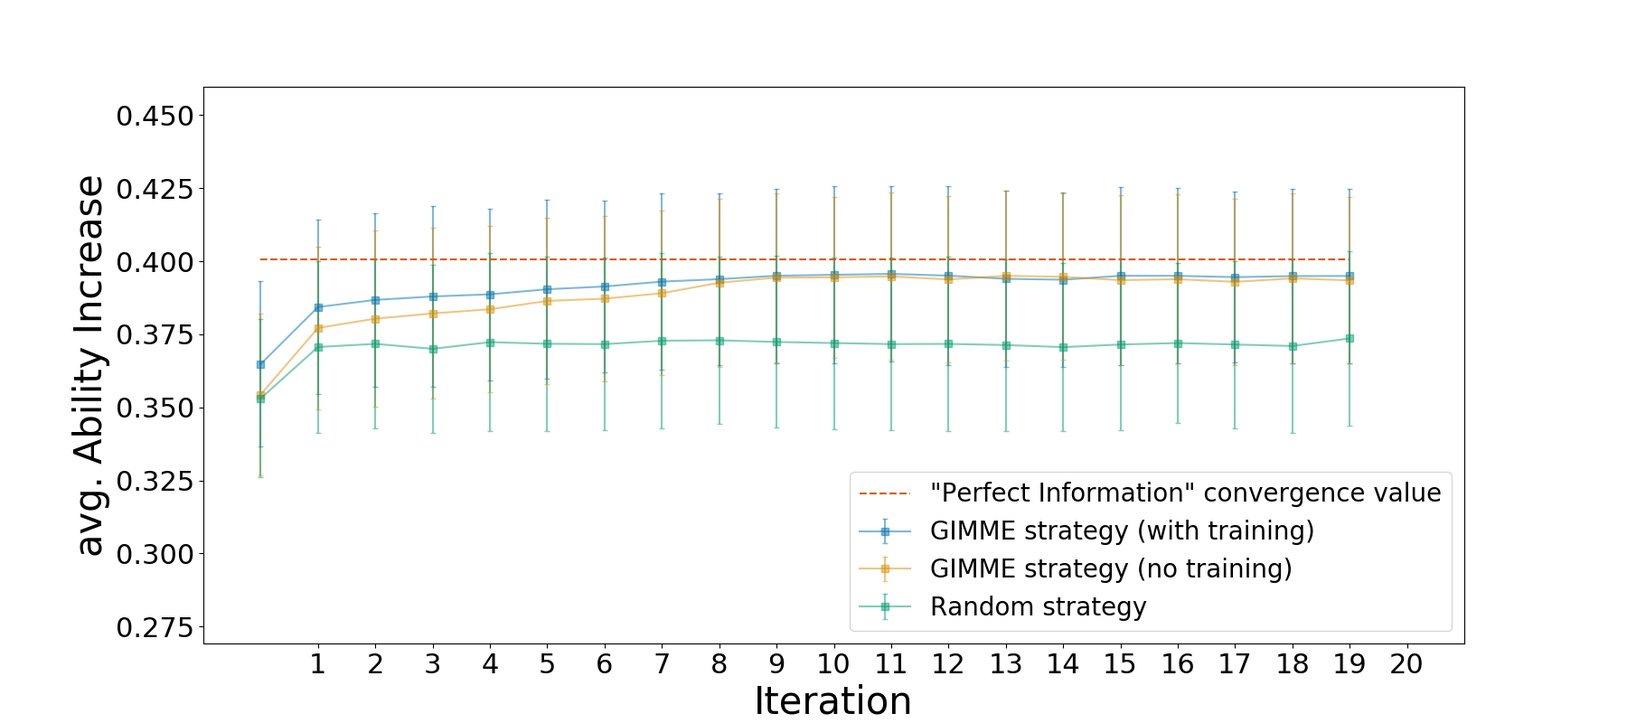
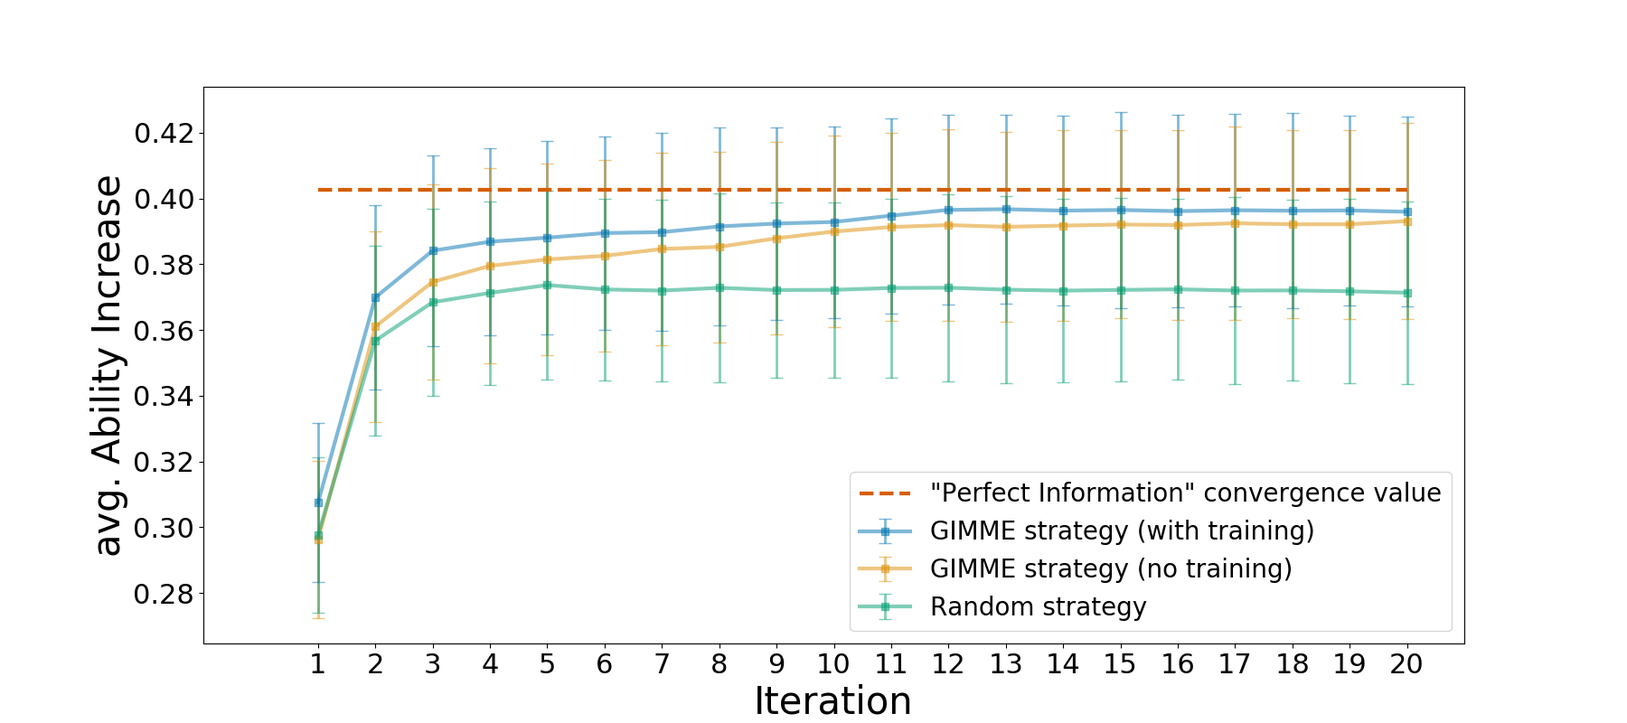
Updated simulation parameterizations.

diff --git a/examples/plotsOnly.py b/examples/plotsOnly.py
@@ -6,41 +6,40 @@ import matplotlib.collections as collections
 maxNumTrainingIterations = 20
 numRealIterations = 20
 
-GIMMEAbilityMeans = [0.32788280316291435, 0.34823899998823565, 0.35221047490561097, 0.35526979383144036, 0.3549769717011178, 0.3587416344563396, 0.3600134323456845, 0.3621627672736143, 0.363742690017788, 0.36604064067102976, 0.3666865846799893, 0.3667211465383608, 0.3667607099296731, 0.3664881178361091, 0.36790129820752454, 0.36593080858344823, 0.3654326232132489, 0.3667037276310321, 0.3666032221577468, 0.36681715140794957, 0.36481064181648337, 0.3843621007192697, 0.38679968152927496, 0.38796874247356994, 0.38871531302825785, 0.390445963765652, 0.39138984049903186, 0.39306281492071826, 0.3939030697120506, 0.39506731304366666, 0.39538825160798324, 0.3957132251617034, 0.39509699213031163, 0.3940227757609388, 0.3937046529091305, 0.3950484984234933, 0.39504048934587016, 0.3945859710087972, 0.39495218458623477, 0.3949890375352966]
-GIMMEAbilitySTDev = [0.02881201016111268, 0.027232426631951648, 0.028789000986619642, 0.030042011428566124, 0.029417800743487568, 0.028387611178705245, 0.029182283518719827, 0.028522386456396445, 0.028812664534610594, 0.0282938265452271, 0.028872241660869824, 0.02837026249855532, 0.02847952837214279, 0.02845341938335473, 0.02838352687690083, 0.02797047669749916, 0.028299735135563813, 0.028346224177664584, 0.027819230072839287, 0.028564523008593027, 0.028295585038448902, 0.029829476131407878, 0.029627289208460656, 0.0308402865469588, 0.02939949982448407, 0.030613678965615, 0.02937105356418295, 0.030144985940403234, 0.02942423856783531, 0.029869799520586052, 0.03026602442571173, 0.02996659476340647, 0.030693046936720977, 0.030136391595870657, 0.02992351151544292, 0.030421685227931494, 0.030091940096057274, 0.029187893084493183, 0.029787121189796185, 0.02987508564372308]
-GIMMEEngagementMeans = [0.6526349010590471, 0.6939547544031404, 0.7009125441092108, 0.7066446604985753, 0.7065895782266944, 0.7138079457304671, 0.7155661275045233, 0.7197462985315283, 0.7232249592135837, 0.7285092946829282, 0.7293175763860601, 0.7292989755576665, 0.7294329381216381, 0.7294924159628722, 0.7319157769646072, 0.7281734086997835, 0.7269378178376017, 0.7287447764989647, 0.7293200633511709, 0.7296443785901017, 0.7256320935289342, 0.7647104445549887, 0.7695068910814744, 0.7720208949229715, 0.7734762558715372, 0.7759958739426142, 0.7783294767332669, 0.781489329537536, 0.7825313351159254, 0.785254316832925, 0.7859069118928582, 0.7867672855812199, 0.7855190967858368, 0.7842351186845219, 0.7829356635393239, 0.7863824469421705, 0.7856621028731982, 0.7851221510238496, 0.7849557276195953, 0.7853362821698359]
-GIMMEEngagementSTDev = [0.03147774782143698, 0.027666838088066237, 0.028920558143334676, 0.028285639203155057, 0.028782852432009426, 0.02804376152003227, 0.027045357593349025, 0.024869124602732193, 0.024015572444884965, 0.023452562260632165, 0.023940866251070093, 0.023232511477645795, 0.02298643330162976, 0.025478930909636786, 0.023830047882696496, 0.024651249268394845, 0.026383554315255756, 0.023926925665258555, 0.022986606462108664, 0.023785272958856168, 0.025374892800991776, 0.02556549060043557, 0.02485316557363593, 0.02430008052463983, 0.023040095379035862, 0.022623598386080454, 0.0221746180743705, 0.022160156272235165, 0.022197634319929327, 0.02030915814589234, 0.021800767906737437, 0.021588945929789757, 0.021865196555607137, 0.02114464641850341, 0.022811074380631388, 0.02129805133708739, 0.019851963972288517, 0.021494809038831515, 0.020688765106459752, 0.021693382060100505]
-GIMMEProfDiffMeans = [0.4426713219986452, 0.42973780560212105, 0.4224556522160783, 0.4144404451522709, 0.4149490977132045, 0.4041994049481251, 0.40211937458087643, 0.3960274458083182, 0.39116009171622923, 0.3835525123129624, 0.382742592310496, 0.3828304446169437, 0.38262963729903926, 0.3825510669979948, 0.3789479677593711, 0.38469940508070444, 0.3862602092460378, 0.38347831986362774, 0.3827564175516625, 0.3823164469348746, 0.33400435399225176, 0.32984098913105925, 0.32560947015406755, 0.322224019267693, 0.3202446252938149, 0.316602132147987, 0.3133157649760637, 0.30878555860226, 0.30746957640596345, 0.3034935798236218, 0.30272477466490544, 0.3014925570864158, 0.3034147077493338, 0.3052331908741006, 0.3070720499559955, 0.30184428870402724, 0.30317317790788006, 0.30392335812975496, 0.30413091378656787, 0.30355201555715594]
-GIMMEProfDiffSTDev = [0.04685921882320221, 0.040554317897308415, 0.04224603011797991, 0.041220588922187024, 0.041983727949138246, 0.04071295611886341, 0.039321351857342056, 0.03591973882516772, 0.0348255422462718, 0.033959221891834195, 0.03473777807079394, 0.03362704335524554, 0.03326233863919404, 0.03709260917406835, 0.03448061132138929, 0.03585586480425231, 0.03831394932413358, 0.03467110874962679, 0.033387655780271364, 0.034416022094738784, 0.03777422899254565, 0.03778569042359091, 0.0365081510934224, 0.035731500926619086, 0.0340401872458493, 0.033163180338686864, 0.03257820842403086, 0.032514932766662376, 0.032524312935658765, 0.02980681013228831, 0.03199922405710744, 0.03153776740084098, 0.0319598508212564, 0.03088856714543033, 0.03341678564753032, 0.031210706059209337, 0.028926014446860094, 0.03149882934987438, 0.030249056034530167, 0.031894387234333514]
+GIMMEAbilityMeans = [0.27689083128973474, 0.3351225543691162, 0.34849331661175803, 0.35303323256357355, 0.35528803276718185, 0.3572431887493089, 0.35762593038095036, 0.3600842523051019, 0.3625312019518175, 0.365441201414142, 0.36647377059004976, 0.36690977744324615, 0.36732558545598787, 0.36655936929994837, 0.36803474994417024, 0.3673347617631217, 0.3675962166720442, 0.3671758587404084, 0.36723204552101335, 0.3675006551071768, 0.30746158177379207, 0.36989514884803165, 0.38409697870540666, 0.38683160162983327, 0.3880572280490859, 0.3894633366060179, 0.3897408042902272, 0.3914712436948657, 0.3923528418588732, 0.3928288104713827, 0.3947572735454433, 0.3965001396890249, 0.3967171314454053, 0.3962867385832246, 0.39648003135624754, 0.39612611611447035, 0.3964092495497423, 0.39625378048122556, 0.3963429192008103, 0.3959264468123685]
+GIMMEAbilitySTDev = [0.023233877467273786, 0.02822858133161458, 0.028424589189562182, 0.028480669648600316, 0.028905417128825352, 0.028266342556348755, 0.028649159002363568, 0.029835261291705203, 0.028649781475419862, 0.02852417979221509, 0.027832833988708356, 0.028761384739022056, 0.028581773418703688, 0.028278423857526006, 0.02884080723891862, 0.028929888053266788, 0.02915532974848279, 0.029120963375531064, 0.02918530238256982, 0.02870558710922797, 0.024148282885085904, 0.02802344669629098, 0.028992925544448694, 0.028384219012657724, 0.0293008282432982, 0.029399395201436793, 0.030112000899700044, 0.030161208757022526, 0.029175978560263646, 0.029118772712038343, 0.029669572018902912, 0.028868520050458035, 0.028765318496601543, 0.028933375331402604, 0.029774714555433224, 0.029299049361024586, 0.029380313859995927, 0.029600420221799338, 0.028921106150470135, 0.028822564594962987]
+GIMMEEngagementMeans = [0.5503819836249878, 0.6656389463330521, 0.6926213137389472, 0.7016232321307802, 0.7065194314715345, 0.7097830534755281, 0.7099518821859895, 0.7143391758415252, 0.7196646705058025, 0.7250579963504699, 0.7273656755359951, 0.7282736349602991, 0.7288607473139852, 0.7275573702254488, 0.7302143644865208, 0.729080200034017, 0.7299449759257838, 0.7283271459529288, 0.7287390896161672, 0.7293282289616656, 0.6103794313943911, 0.734698734133571, 0.7626766622702892, 0.7686010236472667, 0.7708493387396791, 0.7730050902152915, 0.7737250692553496, 0.7767834496594639, 0.7789397596502536, 0.7801892387565509, 0.7836958424744553, 0.7869290748512984, 0.787501899860591, 0.7865939590916509, 0.7868530960438938, 0.7861187969670832, 0.7866942304668001, 0.7868662044436863, 0.7867200903903465, 0.7854573968128298]
+GIMMEEngagementSTDev = [0.024447806781589126, 0.025873615017365834, 0.027898395330118942, 0.02599843091347407, 0.025015114469786635, 0.023997792839684916, 0.025846082340043618, 0.026736686446664923, 0.02499350255334466, 0.024418162529240433, 0.021042852830779283, 0.02262956884688599, 0.022342634188287806, 0.022204485188976126, 0.021195995366789087, 0.02247698720623695, 0.021951314859777714, 0.02325257423164777, 0.022592473714927053, 0.022524382796177966, 0.02187434042151838, 0.02024688372580222, 0.02189431269528179, 0.022482123534999027, 0.02234385224077099, 0.022515860153346744, 0.02109112023577643, 0.022239044717842313, 0.02208807304987008, 0.020359582242433765, 0.019659897686360263, 0.019557949194153112, 0.01935205049293213, 0.01903919179889541, 0.018872284686090236, 0.020043778457183088, 0.019402593924705225, 0.019422745282184004, 0.018248093498301865, 0.01877544727339213]
+GIMMEProfDiffMeans = [0.44126648021276454, 0.4321084468702381, 0.4251593994122171, 0.4187858130484225, 0.41331313242797785, 0.40927487718028854, 0.41013029199035056, 0.40243426921614855, 0.3945711782878826, 0.3869198817882439, 0.384747271424978, 0.38395809856050317, 0.383241232876963, 0.3857528753846367, 0.3805951153468182, 0.38353944311497207, 0.3816097331841124, 0.3847754239942809, 0.38347521432761833, 0.38257939734082397, 0.33520497478368794, 0.3312391373034245, 0.32573419153049715, 0.32515299262535585, 0.32327307355706414, 0.3202571067637138, 0.31974652485334765, 0.3145945720761256, 0.3118640192956531, 0.31041760213153263, 0.30466050153637914, 0.3001846718232683, 0.3003151709714154, 0.3021227228822511, 0.3013436236044684, 0.3027333119941406, 0.3014564657413941, 0.3013559022931721, 0.3016749998706502, 0.3038554887297362]
+GIMMEProfDiffSTDev = [0.04321802490100848, 0.04255018713715994, 0.044962989011585956, 0.0410427215149286, 0.04005682665200548, 0.038354578302244736, 0.04095698144831006, 0.04241216848345821, 0.039324886261175855, 0.0381231821876202, 0.032104362842817744, 0.035792801992589135, 0.03482839528596643, 0.03396960215344246, 0.032643411539904715, 0.03554749767346182, 0.03375859587660654, 0.03636404928109551, 0.03463036152313238, 0.03465960966984218, 0.03866873611509995, 0.034939906405445864, 0.03688581993121396, 0.03662124696027411, 0.036296720062277764, 0.03684114275044, 0.03450035408808989, 0.03652052178533654, 0.036039730790516325, 0.03321487800442235, 0.0318922548574032, 0.03141923301699784, 0.031337134566028886, 0.030886409706490474, 0.030295382891425464, 0.03239902018120343, 0.031181140391881138, 0.030962818163592927, 0.029893958965662507, 0.03066307141303379]
 
-GIMMEOldAbilityMeans = [0.0, 0.0, 0.0, 0.0, 0.0, 0.0, 0.0, 0.0, 0.0, 0.0, 0.0, 0.0, 0.0, 0.0, 0.0, 0.0, 0.0, 0.0, 0.0, 0.0, 0.3543984332820961, 0.37720148195527287, 0.3803775151341241, 0.382172589118423, 0.3836029005462023, 0.3864571714153927, 0.3872254974402284, 0.3890849157485702, 0.39268968828221307, 0.39441442766448076, 0.39451746562585155, 0.3948473389059694, 0.3938025291274264, 0.3950507036218623, 0.39469579553037243, 0.3935642299518866, 0.3938857468860794, 0.3929830040379781, 0.3941584205948491, 0.39349849068927056]
-GIMMEOldAbilitySTDev = [0.0, 0.0, 0.0, 0.0, 0.0, 0.0, 0.0, 0.0, 0.0, 0.0, 0.0, 0.0, 0.0, 0.0, 0.0, 0.0, 0.0, 0.0, 0.0, 0.0, 0.027755584326956066, 0.027847695319644455, 0.030058490554918424, 0.029221225730889606, 0.02840637878388629, 0.02846075583930205, 0.028275374823501852, 0.028153448791584355, 0.02876668882242421, 0.02897452838448741, 0.02751749771326003, 0.028558023899957263, 0.02854367593782314, 0.029007204008574303, 0.02839793453731666, 0.029155794788245395, 0.02892049383546314, 0.028407169751019565, 0.02897067653539608, 0.02840808387439699]
-GIMMEOldEngagementMeans = [0.0, 0.0, 0.0, 0.0, 0.0, 0.0, 0.0, 0.0, 0.0, 0.0, 0.0, 0.0, 0.0, 0.0, 0.0, 0.0, 0.0, 0.0, 0.0, 0.0, 0.7074155362446245, 0.7541417594607328, 0.7599638570700229, 0.7632869161184747, 0.7658960221076953, 0.7717713213988137, 0.7731654601863512, 0.7766401725928008, 0.7839331412515826, 0.7870015337539178, 0.7874552625885751, 0.788341701009351, 0.7854279568803259, 0.7881167544286962, 0.7880373716411185, 0.7858636359155334, 0.7862762373663787, 0.7848865798530171, 0.7871223769585176, 0.7856764434134516]
-GIMMEOldEngagementSTDev = [0.0, 0.0, 0.0, 0.0, 0.0, 0.0, 0.0, 0.0, 0.0, 0.0, 0.0, 0.0, 0.0, 0.0, 0.0, 0.0, 0.0, 0.0, 0.0, 0.0, 0.02601691259597926, 0.025074905765971243, 0.028390803381333908, 0.027274936450494194, 0.026352723625395636, 0.02510482954697482, 0.021325081279983775, 0.023039982373902593, 0.020864221556845166, 0.021583578715717665, 0.02024238923931429, 0.020442354237644008, 0.022238349741629318, 0.021979445260404504, 0.02129497188996083, 0.02124569654941382, 0.022853445419392753, 0.02251534522116488, 0.021838117709628565, 0.020400104182124946]
-GIMMEOldProfDiffMeans = [0.0, 0.0, 0.0, 0.0, 0.0, 0.0, 0.0, 0.0, 0.0, 0.0, 0.0, 0.0, 0.0, 0.0, 0.0, 0.0, 0.0, 0.0, 0.0, 0.0, 0.3611223564882702, 0.3442181182659933, 0.339029016717588, 0.33451551071247204, 0.33087881879996617, 0.3223267806034193, 0.32068871367274515, 0.31561986639749323, 0.30502184964308887, 0.3009969322408518, 0.30054987818081197, 0.2992640573773493, 0.3036675701419774, 0.2994480261602836, 0.2997663323842626, 0.302996346419417, 0.30222033284589483, 0.3043197516151901, 0.30088800612631017, 0.3032069046096681]
-GIMMEOldProfDiffSTDev = [0.0, 0.0, 0.0, 0.0, 0.0, 0.0, 0.0, 0.0, 0.0, 0.0, 0.0, 0.0, 0.0, 0.0, 0.0, 0.0, 0.0, 0.0, 0.0, 0.0, 0.03872996909926799, 0.03704343479267916, 0.04182682291254275, 0.039937505701499024, 0.03868562161498767, 0.0368075110812226, 0.031276844800245514, 0.03391453886964588, 0.03049220677928741, 0.03162872747436388, 0.02953172032828643, 0.029955547104238395, 0.03262707886675792, 0.03215129879874543, 0.03113733879661808, 0.031271469491860784, 0.03353895526403242, 0.03288500970125285, 0.031926791960900584, 0.02975891052757369]
+GIMMEOldAbilityMeans = [0.0, 0.0, 0.0, 0.0, 0.0, 0.0, 0.0, 0.0, 0.0, 0.0, 0.0, 0.0, 0.0, 0.0, 0.0, 0.0, 0.0, 0.0, 0.0, 0.0, 0.29623245296951, 0.3610325168989303, 0.3746122902312078, 0.379496554868998, 0.38145183335860305, 0.3825298268613126, 0.3846220033454874, 0.3852643762877196, 0.38787211328207344, 0.3899216785435304, 0.39130844433349676, 0.3918883116391506, 0.39135716022851713, 0.39172715410373293, 0.39205409242474976, 0.39190712329853655, 0.3924485223852076, 0.39212676747305036, 0.392134337228605, 0.3931100122149698]
+GIMMEOldAbilitySTDev = [0.0, 0.0, 0.0, 0.0, 0.0, 0.0, 0.0, 0.0, 0.0, 0.0, 0.0, 0.0, 0.0, 0.0, 0.0, 0.0, 0.0, 0.0, 0.0, 0.0, 0.02388601261549183, 0.028945420867378186, 0.02974036115359839, 0.02960902688880485, 0.029258305461624844, 0.029022739003072423, 0.029258385433572755, 0.02902112345189164, 0.02924660539893451, 0.029162687134190568, 0.028549658742719388, 0.029040313630660994, 0.028808231230520582, 0.029093222626397696, 0.02858493813619273, 0.028740392575918677, 0.029398461136658883, 0.028588743860711776, 0.028715680608155294, 0.029784794462273247]
+GIMMEOldEngagementMeans = [0.0, 0.0, 0.0, 0.0, 0.0, 0.0, 0.0, 0.0, 0.0, 0.0, 0.0, 0.0, 0.0, 0.0, 0.0, 0.0, 0.0, 0.0, 0.0, 0.0, 0.5930483968684577, 0.7228716570372956, 0.7499213584361946, 0.7593209686501187, 0.763225182253601, 0.7653166207566109, 0.769594798172061, 0.7706971774156779, 0.77595974069006, 0.7801775054390503, 0.7822945517588834, 0.7836125867659152, 0.7829118760197213, 0.7839785284327601, 0.7841757753384012, 0.7833993973610993, 0.7848476595081086, 0.7840524513356129, 0.7845191811708532, 0.7860477354986559]
+GIMMEOldEngagementSTDev = [0.0, 0.0, 0.0, 0.0, 0.0, 0.0, 0.0, 0.0, 0.0, 0.0, 0.0, 0.0, 0.0, 0.0, 0.0, 0.0, 0.0, 0.0, 0.0, 0.0, 0.023172572343129534, 0.025013753537979667, 0.023177710006916867, 0.025055495590352906, 0.02210148812770869, 0.0235976536603169, 0.02230481136616883, 0.021289724159580373, 0.02058373979223837, 0.02103498722970951, 0.0200425635814147, 0.019327769986905094, 0.018521782808303418, 0.01866616539444068, 0.020831467036875058, 0.01980720210218187, 0.020139637376608288, 0.01989167822253314, 0.019596490355368538, 0.01953668195108921]
+GIMMEOldProfDiffMeans = [0.0, 0.0, 0.0, 0.0, 0.0, 0.0, 0.0, 0.0, 0.0, 0.0, 0.0, 0.0, 0.0, 0.0, 0.0, 0.0, 0.0, 0.0, 0.0, 0.0, 0.36584220487935265, 0.3460192073252742, 0.34410109291525753, 0.3370482862524336, 0.333469810528264, 0.33115298261559345, 0.32432959713558884, 0.3238934116698815, 0.3149801761448321, 0.30938474809505023, 0.3071335086006807, 0.30555201877681737, 0.3072567078231836, 0.305123376276971, 0.3051518082928183, 0.30659400093637484, 0.3037593199074043, 0.305677100628013, 0.30457088250369996, 0.3020337685929354]
+GIMMEOldProfDiffSTDev = [0.0, 0.0, 0.0, 0.0, 0.0, 0.0, 0.0, 0.0, 0.0, 0.0, 0.0, 0.0, 0.0, 0.0, 0.0, 0.0, 0.0, 0.0, 0.0, 0.0, 0.04096370760341602, 0.04330756631656927, 0.03862814814441312, 0.04203444740144883, 0.03622981947161655, 0.03933006133347405, 0.036612154450686635, 0.03462365341907195, 0.03354075418938499, 0.03404024592963272, 0.032503569664109534, 0.03134353738757214, 0.03019438855844292, 0.03090113473101346, 0.0342496198110307, 0.031779833947491926, 0.032635228953507886, 0.032393137212786964, 0.031802602088936004, 0.03137959505465563]
 
-optimalAbilityMeans = [0.3602635923505468, 0.3782362700107354, 0.3792662888206428, 0.3791917236742285, 0.37917275257641997, 0.3795651201075257, 0.3793193300733173, 0.3795032721081478, 0.3793565766326111, 0.37929886223277925, 0.37911157923240374, 0.37933054071768185, 0.37930380012957005, 0.37939562262497173, 0.3793989456063367, 0.3791746750823564, 0.3791275276525014, 0.37923718092086744, 0.3794226703204523, 0.37947485654791163, 0.3809264026586092, 0.3997042897177444, 0.40078796074121137, 0.40092296295261093, 0.4010303901124376, 0.40086875966613067, 0.40088598020598437, 0.40108212705534496, 0.4008263646112519, 0.40093705132229285, 0.4008575693818429, 0.40090281482090107, 0.4008337138901053, 0.4008467484110739, 0.40087469620327265, 0.40053237140070347, 0.40089833696196603, 0.40095785107169696, 0.4009738811989782, 0.40080110075107633]
-optimalAbilitySTDev = [0.026528753834449456, 0.027824201882000753, 0.0280770893343096, 0.027854207480613596, 0.027738812069515274, 0.027822557822011165, 0.02805448901383333, 0.02803631666933907, 0.028130904606627174, 0.02772062958064721, 0.027994845028591706, 0.02810801990985394, 0.027761602760230965, 0.02794461937842264, 0.02804067885045525, 0.02811675788166103, 0.027812743712730223, 0.027945302614035678, 0.027679488705935295, 0.027901290809777272, 0.027708411577382623, 0.02909443706248024, 0.02927925695401499, 0.029329999584083784, 0.02934394599208024, 0.02922920385573755, 0.029069206317309918, 0.02907217979297166, 0.029127286957682408, 0.029267651490457305, 0.029138042244755573, 0.029275187439227746, 0.02922962937555075, 0.029150782176648106, 0.02922468929795034, 0.029198892670685317, 0.029213111166840482, 0.029152931690577883, 0.029146714131782336, 0.02924600324026987]
-optimalEngagementMeans = [0.7239021539583884, 0.760180736159736, 0.7622435883648719, 0.7619182705807965, 0.7618488975335045, 0.7627528600242844, 0.7620441125842116, 0.7624274397651607, 0.7626564183770088, 0.7621857794445935, 0.7616083150651305, 0.7619701099492863, 0.762207724870124, 0.7622386431389676, 0.7620843370102874, 0.761938430081285, 0.7619086702416906, 0.7621580677639231, 0.7625132425592075, 0.7626521850044693, 0.7661544767276847, 0.8040238598238958, 0.806077584917313, 0.8064425216879215, 0.8065890519369696, 0.8062444788268959, 0.8064196854775849, 0.806761871872288, 0.806367866010714, 0.8064995413512823, 0.8063474390608731, 0.8064061584652674, 0.8063422261212271, 0.8061388367029781, 0.8065369027760002, 0.8056754811572933, 0.8063031292422276, 0.8066270553078021, 0.8065883145308346, 0.8061726737315068]
-optimalEngagementSTDev = [0.013998981860875701, 0.014514146444981045, 0.014985610552954949, 0.01460090775603119, 0.014500734596829714, 0.014372136708185577, 0.014827236481487665, 0.014837800710898328, 0.015134964364785675, 0.014422660665458196, 0.014432840647708603, 0.014718009640518165, 0.01482585013346212, 0.014621460514108692, 0.0145814743963888, 0.014930350531395612, 0.014977814845958027, 0.015053482968742543, 0.01427233379633329, 0.014760039133930668, 0.009683745769464177, 0.0100885196077596, 0.010545765391060174, 0.010191689660906321, 0.010723117430208156, 0.010294491145050946, 0.010384199282279268, 0.010219096968021047, 0.010383112095744175, 0.010224114355100537, 0.010370290127116313, 0.010194027877079724, 0.01009826474101157, 0.010359158006149132, 0.010576863507923617, 0.010447822059659332, 0.010575306887825292, 0.010149932723957592, 0.010172945283415663, 0.010552867387408531]
-optimalProfDiffMeans = [0.3365796213635699, 0.3364553573900318, 0.3360847990563119, 0.3367226248464217, 0.3368016825971883, 0.33545083898713024, 0.3365731969268828, 0.3359498048108535, 0.33563746867036753, 0.33635512676944185, 0.3371797359896141, 0.33659816953716054, 0.33627137429287385, 0.33624303416346335, 0.3364750426599825, 0.3366807610461319, 0.3367142027207389, 0.336340723039895, 0.33583055678243773, 0.3356501571615377, 0.27368087620346027, 0.27433341032945324, 0.27409484599068623, 0.27370444784713055, 0.2735134792797803, 0.2740373331942765, 0.2737508651733322, 0.2732545118478926, 0.27386651675852935, 0.273641172048933, 0.2738773993906042, 0.2737786656704275, 0.2738782089092911, 0.2741762250927962, 0.2735685069424008, 0.2748804876350935, 0.27388202432886405, 0.27344653041998535, 0.27352831227678515, 0.2741441706650755]
-optimalProfDiffSTDev = [0.020839526323236334, 0.020684325738612414, 0.021357839170293748, 0.020747244567082945, 0.02061905011972175, 0.0204166331017268, 0.021110886960347304, 0.02111424336187048, 0.021544382491397406, 0.020448519856792937, 0.020517886716915602, 0.02096662607686375, 0.02111023066858955, 0.02080625748060905, 0.02073910878869795, 0.021254436790146627, 0.02130277792922542, 0.021418963625605768, 0.0202444801721053, 0.021039115566230067, 0.014415668001871306, 0.01437123968176708, 0.015009968554327582, 0.014455414408090514, 0.015270555928187195, 0.014594738662524682, 0.014763249137689111, 0.014520987658507858, 0.014771289471752784, 0.01452403533592205, 0.014742430842332024, 0.014473720013005668, 0.014341091939551182, 0.01473853403079745, 0.015044923040677945, 0.014832437372482169, 0.015043395777759965, 0.01440392068720803, 0.014456848001971017, 0.015024503205799837]
+optimalAbilityMeans = [0.304608981440512, 0.36553178386643653, 0.37755632611872203, 0.38013518351542575, 0.38065641423768976, 0.3807897837922344, 0.38065678712207734, 0.3807727995449085, 0.3808107885460144, 0.3808228574924559, 0.38075133977363873, 0.38079764777195474, 0.3805701065438309, 0.38078044370653447, 0.3807091481783585, 0.3807827468675298, 0.3806962869615429, 0.3807960061111983, 0.38084584677699634, 0.38057066519990485, 0.32203423684170657, 0.38637650568219595, 0.399217105077989, 0.4018718951644782, 0.4024250766776155, 0.4024844109801471, 0.4024699966554735, 0.40263192623630506, 0.40261207495927065, 0.402520295109223, 0.40254007260229363, 0.4024568254689321, 0.40260609574797046, 0.4025708298123816, 0.4024977446040781, 0.4023287465524641, 0.402511932432449, 0.4025056760811743, 0.40257536840053, 0.4025225602556265]
+optimalAbilitySTDev = [0.020906215857945113, 0.024945499553978737, 0.025896878686728738, 0.025847620021785124, 0.025837784490050964, 0.025938435328812834, 0.0260051065674879, 0.025983550986544375, 0.025972047243150706, 0.02584609986551581, 0.025832742824595682, 0.02604158910526461, 0.025855211097432485, 0.0259156367378922, 0.026006576174371538, 0.025854997862986267, 0.0257315212690177, 0.02607623686751637, 0.026019752511048155, 0.025937202705891355, 0.02187076631900886, 0.026241633931336352, 0.027065222048618442, 0.027214179757862157, 0.027228532026923002, 0.027327997214078276, 0.02738253761751362, 0.02735438575799757, 0.02734172462163079, 0.02740217571468028, 0.027303152129529985, 0.027224609604110016, 0.027284176360509175, 0.0272693374793177, 0.027339419431115022, 0.02737334209018009, 0.027307883163055158, 0.027219889972311576, 0.02730072859509077, 0.027371008062407245]
+optimalEngagementMeans = [0.6092564677854321, 0.7310765382337672, 0.7549431904650775, 0.7599812052004046, 0.7610430029250701, 0.7614865381083813, 0.7611284748198532, 0.7614712118124606, 0.7613948581504314, 0.7612962233739783, 0.7614672897722056, 0.7614465181176648, 0.7612239973086833, 0.7615761223073866, 0.7614122959979328, 0.7615540683756611, 0.7615385587750453, 0.761657758210068, 0.7616112213942098, 0.7611801607358932, 0.6448818631172787, 0.7736824949792281, 0.7994628393738032, 0.804802151335665, 0.8058452627336943, 0.8058619283093552, 0.8059389448205905, 0.8062488279783264, 0.8061315792483869, 0.8059761766157517, 0.8059721039233306, 0.805843100244255, 0.8060809557202485, 0.8061546259130928, 0.8059855894508904, 0.8055497435298044, 0.8059095958254316, 0.8058788244710581, 0.8061733947221231, 0.8060112336809643]
+optimalEngagementSTDev = [0.012316217446315492, 0.014602593203946076, 0.015283160412072144, 0.015207341812578915, 0.015450866114560072, 0.01503261243768995, 0.015346230668430992, 0.01522640799600787, 0.015242237778098721, 0.015375455637761846, 0.01518046368419003, 0.01567220926245135, 0.015544502662063165, 0.015320993198035716, 0.015090706416183363, 0.015179712777763532, 0.015447849461120308, 0.015369111921145791, 0.015185102963169645, 0.01544984867674464, 0.008315956474780693, 0.010070131307539604, 0.010182354399251924, 0.010274914027793626, 0.010202968830953327, 0.010480542363966531, 0.01047073908850621, 0.010288145793688102, 0.010394348338297988, 0.010787293443670224, 0.010599734206323486, 0.010408056314293888, 0.010223556398310749, 0.009976058086927824, 0.010406003675218491, 0.010318700377317703, 0.010116864046160988, 0.010298517188943474, 0.010423454605909216, 0.010294372148244486]
+optimalProfDiffMeans = [0.3371901127409892, 0.33724530792080853, 0.33812452777767726, 0.3376566276384983, 0.3375608239016346, 0.3371521592477786, 0.33794194506421643, 0.33720947144542057, 0.3374656227517104, 0.3376129909538436, 0.3372757127686485, 0.3373729133182136, 0.3377589343617879, 0.3370577864392748, 0.337471888162356, 0.3371633462909888, 0.33724088775524985, 0.3370246874613205, 0.33714909707090046, 0.3378946586083623, 0.27421271618698967, 0.2745233848974682, 0.2744876441459959, 0.27416371307960097, 0.27420746706945504, 0.2745468017870885, 0.2744165467144751, 0.2738959749576282, 0.27421280362879913, 0.2744460655811617, 0.2743983220245582, 0.2746249305510248, 0.27415884781284466, 0.2741127106905246, 0.2744375741087178, 0.2751482847102537, 0.2743580549109179, 0.27453967849351024, 0.2740080676216776, 0.2743988768623292]
+optimalProfDiffSTDev = [0.021772202187125982, 0.02182845543244934, 0.022258830551376455, 0.021836395022961495, 0.02231294891200413, 0.021575377692415725, 0.022222233287099147, 0.02188485900695691, 0.02206302099299185, 0.022181120701852908, 0.02176539757660975, 0.022714007986951997, 0.022353888287793916, 0.021986165181824575, 0.02166485939563427, 0.021913326489243497, 0.022330184984818258, 0.022118766459260458, 0.021860117589968316, 0.022383275901236094, 0.014700673038493869, 0.015110410264403617, 0.014684361191271502, 0.014813626230233402, 0.014634988197284452, 0.015164733431457456, 0.015067088178315634, 0.014770863911944787, 0.015011521482050205, 0.015619410048992694, 0.01515117389246964, 0.014894561309361098, 0.014602842073196691, 0.014239593547542822, 0.01510171041761667, 0.014753335623509048, 0.014466140602864223, 0.014883408919754494, 0.015027367790845026, 0.014773851718428955]
 
-randomAbilityMeans = [0.0, 0.0, 0.0, 0.0, 0.0, 0.0, 0.0, 0.0, 0.0, 0.0, 0.0, 0.0, 0.0, 0.0, 0.0, 0.0, 0.0, 0.0, 0.0, 0.0, 0.35309184718483233, 0.3706835972033071, 0.371753950432934, 0.37005725412916923, 0.3723479861908357, 0.37178317134565075, 0.37166703692872094, 0.3728225516135352, 0.3729764281430933, 0.3724211346552054, 0.37203258031859726, 0.37167476191174, 0.37175108175478605, 0.37135693091083427, 0.37063597573084633, 0.3715416536725777, 0.37203009620095095, 0.37153271242614255, 0.3710247145052836, 0.37360857971377553]
-randomAbilitySTDev = [0.0, 0.0, 0.0, 0.0, 0.0, 0.0, 0.0, 0.0, 0.0, 0.0, 0.0, 0.0, 0.0, 0.0, 0.0, 0.0, 0.0, 0.0, 0.0, 0.0, 0.02705389613465749, 0.02951738438481143, 0.028793129597357567, 0.02867603363071965, 0.030496930721470368, 0.029800313250583507, 0.029488284047011506, 0.029938749994375357, 0.028519495604884607, 0.02933899264238054, 0.029361531717527912, 0.029593661542185984, 0.029810219772227472, 0.02931264730135311, 0.028867894450813537, 0.02929461890669719, 0.02747951726944757, 0.02861090437961716, 0.029681544478575673, 0.029918995749799088]
-randomEngagementMeans = [0.0, 0.0, 0.0, 0.0, 0.0, 0.0, 0.0, 0.0, 0.0, 0.0, 0.0, 0.0, 0.0, 0.0, 0.0, 0.0, 0.0, 0.0, 0.0, 0.0, 0.7055059191850778, 0.7412335135911918, 0.7429358541630172, 0.7394896475221527, 0.7442190045538762, 0.7430329557751592, 0.7429281203940356, 0.7448417218594543, 0.7457246457148675, 0.7442446159476498, 0.7429189322633065, 0.7427035814923083, 0.7431750531089845, 0.742686210452598, 0.7404337436413616, 0.7421120255778968, 0.7439984785452454, 0.7425867572595879, 0.7413786920102379, 0.7465956613021502]
-randomEngagementSTDev = [0.0, 0.0, 0.0, 0.0, 0.0, 0.0, 0.0, 0.0, 0.0, 0.0, 0.0, 0.0, 0.0, 0.0, 0.0, 0.0, 0.0, 0.0, 0.0, 0.0, 0.02707400759630317, 0.02768049633855653, 0.02888912957963629, 0.028078096347625862, 0.02799311152869918, 0.028560527400338508, 0.029790932596443533, 0.028387035025778582, 0.02754976029705449, 0.026560582518021417, 0.028839894866082558, 0.03085186054256467, 0.029165118093697692, 0.02892592195789639, 0.0287402046425798, 0.028376419672520133, 0.027671607659630153, 0.028022310083291632, 0.028728190632398846, 0.027085653679511074]
-randomProfDiffMeans = [0.0, 0.0, 0.0, 0.0, 0.0, 0.0, 0.0, 0.0, 0.0, 0.0, 0.0, 0.0, 0.0, 0.0, 0.0, 0.0, 0.0, 0.0, 0.0, 0.0, 0.36396510000884913, 0.36329178780064947, 0.36341689233070396, 0.3686737826743591, 0.3613769358700633, 0.36349455935561753, 0.36356234178127733, 0.36070586375363284, 0.35953393656037086, 0.36180289478569494, 0.36366620629868296, 0.3638881136552342, 0.3631702303356244, 0.36393303664326426, 0.36724977634591577, 0.364583752628236, 0.3619004106099238, 0.3641423766699533, 0.3658356803440992, 0.3579795415650477]
-randomProfDiffSTDev = [0.0, 0.0, 0.0, 0.0, 0.0, 0.0, 0.0, 0.0, 0.0, 0.0, 0.0, 0.0, 0.0, 0.0, 0.0, 0.0, 0.0, 0.0, 0.0, 0.0, 0.04030360918998744, 0.04092125125498454, 0.04262178145306518, 0.04153675196843617, 0.04108319025331911, 0.04199130719688392, 0.04398107991386196, 0.04196798150409787, 0.0406791825237113, 0.03938130487302982, 0.042746571173044284, 0.04540359796585924, 0.0427274921476489, 0.042438720102126584, 0.04216380801523759, 0.041844439242354904, 0.04075656836372691, 0.041234836259014786, 0.042168329155403986, 0.039880961496555054]
-
+randomAbilityMeans = [0.0, 0.0, 0.0, 0.0, 0.0, 0.0, 0.0, 0.0, 0.0, 0.0, 0.0, 0.0, 0.0, 0.0, 0.0, 0.0, 0.0, 0.0, 0.0, 0.0, 0.2975820971324721, 0.3567456276494789, 0.368423908703727, 0.3712635719177365, 0.3736437732137183, 0.3723133809558987, 0.37196273990399303, 0.3727999355216633, 0.3721282628381166, 0.3721897916638535, 0.372753028382533, 0.3728262652008798, 0.37224598369894896, 0.37194676509878394, 0.37216510405389286, 0.37235399212652154, 0.3719838491727063, 0.3720111655135554, 0.3717523486646923, 0.3713274273694614]
+randomAbilitySTDev = [0.0, 0.0, 0.0, 0.0, 0.0, 0.0, 0.0, 0.0, 0.0, 0.0, 0.0, 0.0, 0.0, 0.0, 0.0, 0.0, 0.0, 0.0, 0.0, 0.0, 0.023713635056667126, 0.028849125540785746, 0.028385178575785087, 0.027906356833428902, 0.02870533317391534, 0.027547748817858486, 0.02765820139747749, 0.028813856934049982, 0.026627208206268613, 0.026613904254489746, 0.02720754719796109, 0.028489883807819114, 0.02842089844718397, 0.02785465711512495, 0.027876610830010803, 0.027416471625363665, 0.028492739256035647, 0.02744898888348626, 0.02808175935935893, 0.027779090867812245]
+randomEngagementMeans = [0.0, 0.0, 0.0, 0.0, 0.0, 0.0, 0.0, 0.0, 0.0, 0.0, 0.0, 0.0, 0.0, 0.0, 0.0, 0.0, 0.0, 0.0, 0.0, 0.0, 0.5931437956057032, 0.7106571564720258, 0.7344489892713887, 0.7396261583786891, 0.7441921886370655, 0.7420594934241854, 0.7411966646357928, 0.7425441914695277, 0.7416848509524576, 0.7418470358847422, 0.7424439612092566, 0.7426424342078133, 0.7413503101529113, 0.7413660560510548, 0.7414405737302706, 0.742211287498556, 0.7415700800644768, 0.7413974410127123, 0.7405445638777949, 0.7397383074590143]
+randomEngagementSTDev = [0.0, 0.0, 0.0, 0.0, 0.0, 0.0, 0.0, 0.0, 0.0, 0.0, 0.0, 0.0, 0.0, 0.0, 0.0, 0.0, 0.0, 0.0, 0.0, 0.0, 0.025620244389101425, 0.026360837196190333, 0.026055234164789626, 0.02622452120092747, 0.025740704471197112, 0.025289210134890182, 0.024868929231551446, 0.025808825845263353, 0.024397917120897988, 0.02601722110384375, 0.025101595942788782, 0.025051581267066705, 0.02592538136572094, 0.02482372159454651, 0.024346720992830938, 0.02431322558060991, 0.025368924845457583, 0.024345278995906702, 0.024515507773138753, 0.025632841457572098]
+randomProfDiffMeans = [0.0, 0.0, 0.0, 0.0, 0.0, 0.0, 0.0, 0.0, 0.0, 0.0, 0.0, 0.0, 0.0, 0.0, 0.0, 0.0, 0.0, 0.0, 0.0, 0.0, 0.3656735621442939, 0.3676453263185587, 0.3671341577196421, 0.36639381241648206, 0.36015254071103947, 0.3655369843085191, 0.3663082429030924, 0.36362107345454303, 0.3656166099029468, 0.3650260819859006, 0.364028198156547, 0.36388838912105526, 0.36624273412602454, 0.3657580642069652, 0.36563190133191165, 0.3642958049802872, 0.3657017987582018, 0.36578028330631046, 0.3672269341982581, 0.3683506700481873]
+randomProfDiffSTDev = [0.0, 0.0, 0.0, 0.0, 0.0, 0.0, 0.0, 0.0, 0.0, 0.0, 0.0, 0.0, 0.0, 0.0, 0.0, 0.0, 0.0, 0.0, 0.0, 0.0, 0.045290621357958624, 0.044234668707064884, 0.043849825933787626, 0.04422545241914807, 0.0422166495312319, 0.04217005242947033, 0.041445165430510855, 0.04288610929431376, 0.04040599004486622, 0.04312947169353307, 0.04131997449005478, 0.04179378125247666, 0.042784870622145726, 0.04107387038571766, 0.04093959997503381, 0.04065586057688507, 0.042945053053442726, 0.04066647653653076, 0.041977846257709374, 0.04377401211346835]
 
 # ----------------------- [Generate Plots] --------------------------------
 # sns.set()
 sns.set_palette(sns.color_palette("colorblind"))
 
-timesteps=[i for i in range(maxNumTrainingIterations + numRealIterations)]
-timestepsReal=[i for i in range(numRealIterations)]
+timesteps=[i+1 for i in range(maxNumTrainingIterations + numRealIterations)]
+timestepsReal=[i+1 for i in range(numRealIterations)]
 convValue=[1.0 for i in range(maxNumTrainingIterations + numRealIterations)]
 empConvValue=[optimalAbilityMeans[-1] for i in range(maxNumTrainingIterations + numRealIterations)]
 totalMin = min(min(randomAbilityMeans[maxNumTrainingIterations:]),min(GIMMEAbilityMeans),min(GIMMEOldAbilityMeans[maxNumTrainingIterations:]),min(optimalAbilityMeans[maxNumTrainingIterations:]))
@@ -50,20 +49,20 @@ plt.rcParams.update({'font.size': 22})
 
 fig = plt.figure(num=None, figsize=(18, 8), dpi=100, facecolor='w', edgecolor='k')
 ax = fig.add_subplot(111)
-c1 = collections.BrokenBarHCollection([(0,maxNumTrainingIterations)], (totalMin-0.05,(totalMax-totalMin)+0.1), facecolor="white", alpha=0.5)
+c1 = collections.BrokenBarHCollection([(0,maxNumTrainingIterations)], (totalMin,(totalMax-totalMin)), facecolor="white", alpha=0.5)
 # c2 = collections.BrokenBarHCollection([(maxNumTrainingIterations,numRealIterations)], (totalMin-0.05,(totalMax-totalMin)+0.1), facecolor='#bdedcf', alpha=0.5)
 ax.add_collection(c1)
 # ax.add_collection(c2)
 plt.xticks(np.arange(1, numRealIterations+1, step=1.0))
 
 
-plt.errorbar(timestepsReal, GIMMEAbilityMeans[maxNumTrainingIterations:], GIMMEAbilitySTDev[maxNumTrainingIterations:], marker='s', capsize=2.0, alpha=0.5, label="GIMME strategy (with training)")
-plt.errorbar(timestepsReal, GIMMEOldAbilityMeans[maxNumTrainingIterations:], GIMMEOldAbilitySTDev[maxNumTrainingIterations:], marker='s', capsize=2.0, alpha=0.5, label="GIMME strategy (no training)")
+plt.errorbar(timestepsReal, GIMMEAbilityMeans[maxNumTrainingIterations:], GIMMEAbilitySTDev[maxNumTrainingIterations:], marker='s', capsize=5.0, alpha=0.5, linewidth=3, elinewidth=2, label="GIMME strategy (with training)")
+plt.errorbar(timestepsReal, GIMMEOldAbilityMeans[maxNumTrainingIterations:], GIMMEOldAbilitySTDev[maxNumTrainingIterations:], marker='s', capsize=5.0, alpha=0.5, linewidth=3, elinewidth=2, label="GIMME strategy (no training)")
 # plt.errorbar(timesteps, GIMMEGridAbilityMean, GIMMEGridAbilitySTDev, marker='s', capsize=2.0, alpha=0.5, label="GIMME Grid strategy")
 # plt.plot(timesteps, GIMMEEvAbilities, label="GIMME Ev strategy")
-plt.errorbar(timestepsReal, randomAbilityMeans[maxNumTrainingIterations:], randomAbilitySTDev[maxNumTrainingIterations:], marker='s', capsize=2.0, alpha=0.5, label="Random strategy")
+plt.errorbar(timestepsReal, randomAbilityMeans[maxNumTrainingIterations:], randomAbilitySTDev[maxNumTrainingIterations:], marker='s', capsize=5.0, alpha=0.5, linewidth=3, elinewidth=2, label="Random strategy")
 # plt.errorbar(timesteps, optimalAbilityMeans, optimalAbilitySTDev, marker='s', capsize=2.0, alpha=0.5, label="\"Perfect Information\" strategy")
-plt.plot(timestepsReal, empConvValue[maxNumTrainingIterations:], linestyle= "--", label="\"Perfect Information\" convergence value")
+plt.plot(timestepsReal, empConvValue[maxNumTrainingIterations:], linestyle= "--", linewidth=3, label="\"Perfect Information\" convergence value")
 plt.xlabel("Iteration", fontsize=30)
 plt.ylabel("avg. Ability Increase", fontsize=30)
 plt.legend(loc='best', fontsize=20)
@@ -86,7 +85,7 @@ ax.add_collection(c2)
 
 
 plt.errorbar(timesteps, GIMMEProfDiffMeans, GIMMEProfDiffSTDev, marker='s', capsize=2.0, alpha=0.5, label="GIMME strategy")
-plt.errorbar(timestepsReal, GIMMEOldProfDiffMeans[maxNumTrainingIterations:], GIMMEOldProfDiffSTDev[maxNumTrainingIterations:], marker='s', capsize=2.0, alpha=0.5, label="GIMME Old strategy")
+plt.errorbar(timestepsReal, GIMMEOldProfDiffMeans[maxNumTrainingIterations:], GIMMEOldProfDiffSTDev[maxNumTrainingIterations:], marker='s', capsize=2.0, alpha=0.5,label="GIMME Old strategy")
 # plt.errorbar(timesteps, GIMMEGridProfDiffMean, GIMMEGridProfDiffSTDev, marker='s', capsize=2.0, alpha=0.5, label="GIMME Grid strategy")
 plt.errorbar(timestepsReal, randomProfDiffMeans[maxNumTrainingIterations:], randomProfDiffSTDev[maxNumTrainingIterations:], marker='s', capsize=2.0, alpha=0.5, label="Random strategy")
 plt.plot(timestepsReal, empConvValue[maxNumTrainingIterations:], linestyle= "--", label="\"Perfect Information\" convergence value")

diff --git a/examples/simulations.py b/examples/simulations.py
@@ -49,8 +49,7 @@ def simulateReaction(playerBridge, currIteration, playerId):
 def calcReaction(playerBridge, state, playerId, interactionsProfile, currIteration):
 	personality = playerBridge.getPlayerPersonality(playerId)
 	newState = PlayerState(characteristics = PlayerCharacteristics(ability=state.characteristics.ability, engagement=state.characteristics.engagement), profile=state.profile)
-	newState.characteristics.engagement = 0.05* (newState.characteristics.engagement) + 0.95* (math.sqrt(2.0) - personality.distanceBetween(interactionsProfile)) / math.sqrt(2.0)  #between 0 and 1
-	# newState.characteristics.engagement = 0.05* (newState.characteristics.engagement) + 0.95* (2.0 - personality.distanceBetween(interactionsProfile))/2.0  #between 0 and 1
+	newState.characteristics.engagement = 0.20* (newState.characteristics.engagement) + 0.80* (math.sqrt(2.0) - personality.distanceBetween(interactionsProfile)) / math.sqrt(2.0)  #between 0 and 1
 	abilityIncreaseSim = (newState.characteristics.engagement*playerBridge.getBaseLearningRate(playerId))
 	newState.characteristics.ability = newState.characteristics.ability + abilityIncreaseSim
 	
@@ -77,9 +76,6 @@ def executionPhase(playerBridge, maxNumIterations, startingI, currRun, adaptatio
 		t1 = time.perf_counter() - t0
 		avgItExecTime += (t1 - t0)/(numRuns) # CPU seconds elapsed (floating point)
 
-		currAbility = 0
-		currEngagement = 0
-
 		for x in range(numPlayers):
 			increases = simulateReaction(playerBridge, i, x)
 			abilityMatrix[i][currRun] += increases.characteristics.ability / numPlayers
@@ -96,8 +92,6 @@ def executeSimulations(maxNumTrainingIterations,firstTrainingI,numRealIterations
 	playerBridge, taskBridge, adaptation, \
 	abilityMean, abilitySTDev, engagementMean, engagementSTDev, profDiffMean, profDiffSTDev, avgItExecTime,\
 	canExport, algorithmNum, numAlgorithms):
-
-
 
 
 	totalNumIterations = len(abilityMean) #assumption that the total number of iterations is given by the size of the ability results array...

diff --git a/GIMMECore/AlgDefStructs/RegressionAlg.py b/GIMMECore/AlgDefStructs/RegressionAlg.py
@@ -40,14 +40,15 @@ class KNNRegression(RegressionAlg):
 
 		numberOfIterations = min(self.numberOfNNs, len(pastModelIncs))
 		pastModelIncs = pastModelIncs[:numberOfIterations]
-		# pastModelIncs = sorted(pastModelIncs, key=self.creationTimeSort)
 
+		triangularNumberOfIt = sum(range(numberOfIterations + 1))
 		for i in range(numberOfIterations):
 			currState = pastModelIncs[i]
 			pastCharacteristics = currState.characteristics
+			ratio = (numberOfIterations - i)/triangularNumberOfIt
 
-			predictedState.characteristics.ability += pastCharacteristics.ability / numberOfIterations * ((numberOfIterations - i)/numberOfIterations)
-			predictedState.characteristics.engagement += pastCharacteristics.engagement/ numberOfIterations * ((numberOfIterations - i)/numberOfIterations)
+			predictedState.characteristics.ability += pastCharacteristics.ability * ratio
+			predictedState.characteristics.engagement += pastCharacteristics.engagement * ratio
 
 		return predictedState
 
